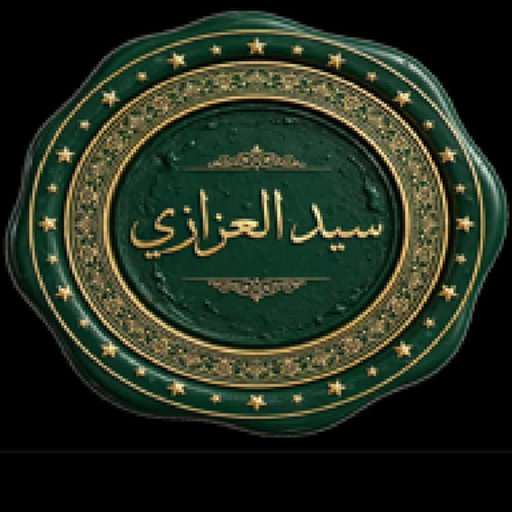
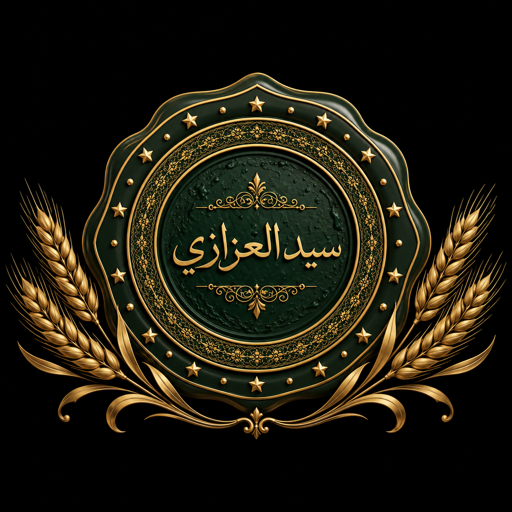
Add files via upload

diff --git a/index.html b/index.html
@@ -8,7 +8,7 @@
 <link rel="icon" type="image/png" sizes="512x512" href="icon-512.png">
 <link rel="apple-touch-icon" href="apple-touch-icon.png">
 <meta name="apple-mobile-web-app-capable" content="yes">
-<meta name="apple-mobile-web-app-title" content="سيد العزازي">
+<meta name="apple-mobile-web-app-title" content="دفتر سنابل">
 <meta name="apple-mobile-web-app-status-bar-style" content="black-translucent">
 <meta name="mobile-web-app-capable" content="yes">
 <meta name="theme-color" content="#0c3b2e">
@@ -263,7 +263,7 @@
 
   <a href="sayed_alazazy_app.html" class="notebook-card active">
     <div class="badge">🧵</div>
-    <div class="label">دفتر الخياط الذكي</div>
+    <div class="label">دفتر سنابل</div>
   </a>
 
   <a href="installments-notebook.html" class="notebook-card soon">